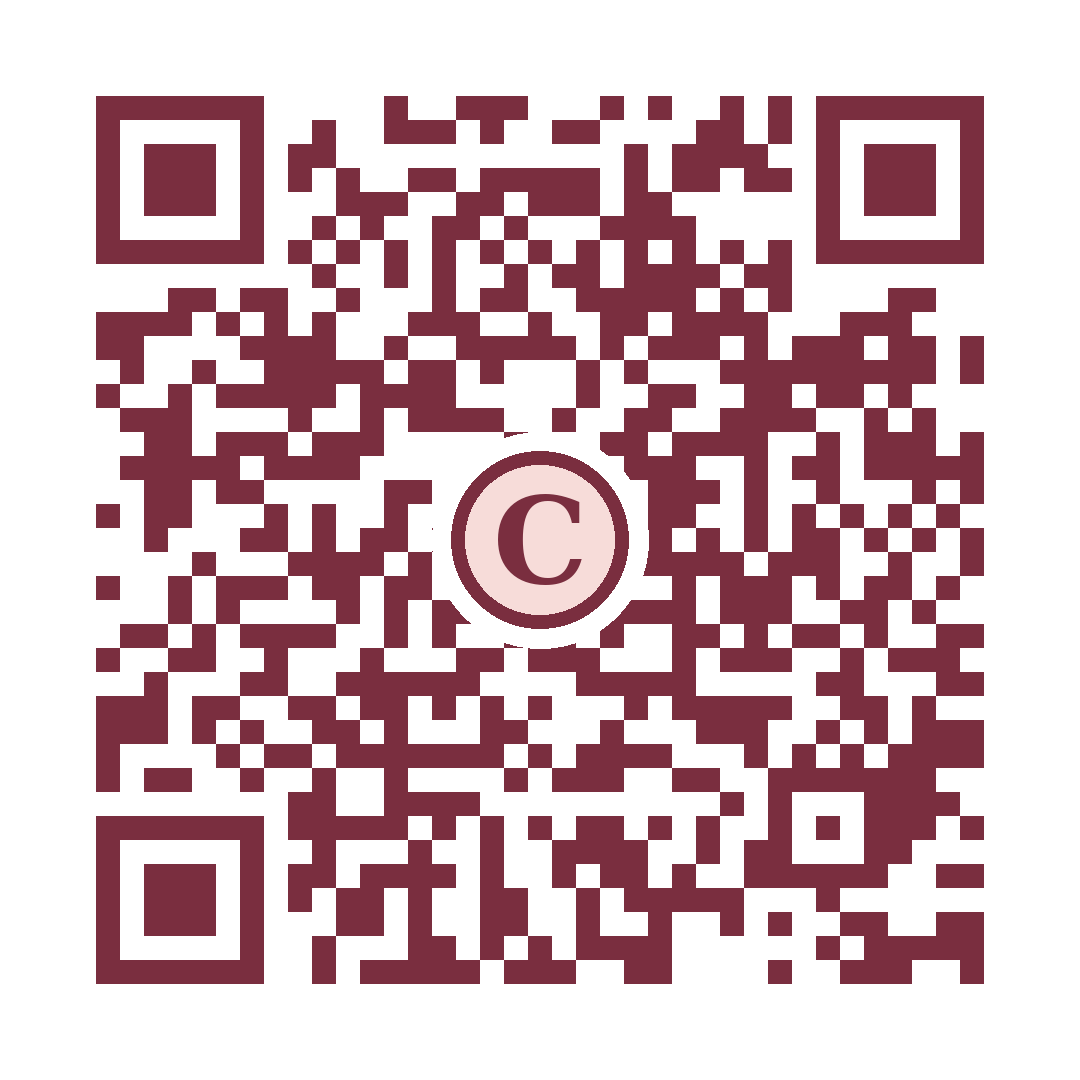
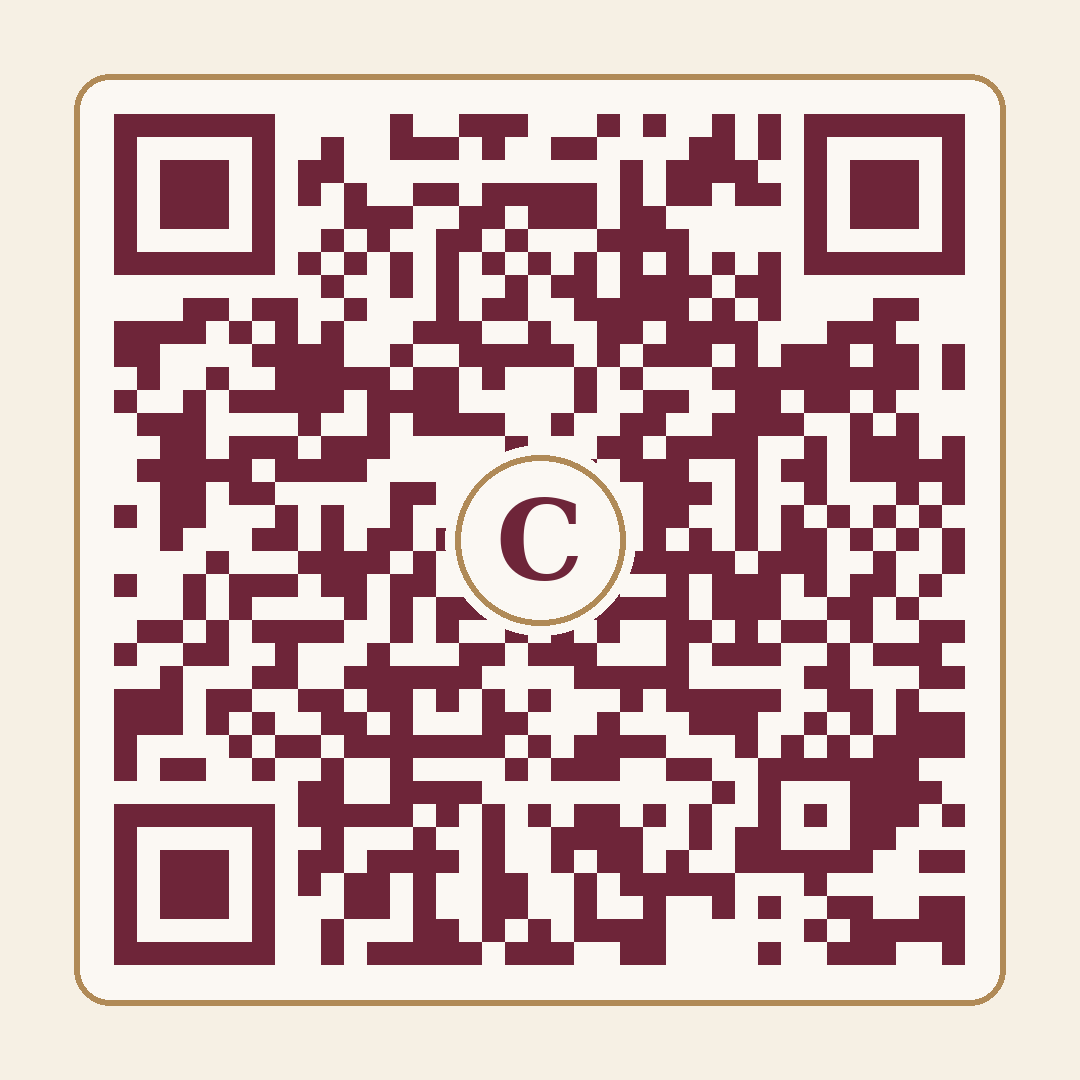
CorAge: QR e cabecalho na nova identidade, portfolio com submenus por area
Claude-Session: https://claude.ai/code/session_01CqJtkkt9FgEqkX4uZfM8Yy

diff --git a/index.html b/index.html
@@ -417,6 +417,27 @@ body{background:#f6f0e4!important}
 .rm .primary{width:100%}
 .hdr{backdrop-filter:blur(18px) saturate(1.6);-webkit-backdrop-filter:blur(18px) saturate(1.6)}
 @media (prefers-reduced-motion:reduce){.view>*{animation:none!important}}
+
+/* QR e cabecalho na nova identidade */
+.modal{background:rgba(31,40,40,.62)!important;backdrop-filter:blur(6px)}
+.sheet{background:#f6f0e4!important;border:1px solid #b08a57;box-shadow:0 20px 50px rgba(0,0,0,.35)}
+.sheet h2{font-family:var(--serif);color:var(--marsala)}
+.qrbox{background:#fbf8f3!important;border:2px solid #b08a57;border-radius:16px!important;box-shadow:0 8px 20px rgba(110,37,57,.18)}
+.hdr .ib,.hdr .ib.on,.hdr button.ib{background:var(--marsala)!important;color:#fff!important;border:0!important;box-shadow:0 6px 14px rgba(110,37,57,.35);width:46px;height:46px}
+.hdr .ib+.ib,.hdr .ib#av{background:var(--teal)!important;box-shadow:0 6px 14px rgba(31,78,82,.35)}
+.hdr .ib svg{stroke:#fff!important;width:24px;height:24px}
+.hdr #av{background:#5a3d2e!important;box-shadow:0 6px 14px rgba(90,61,46,.35);font-weight:700;font-size:20px}
+.logo i{background:var(--marsala)!important;color:#fff!important;border:0!important;box-shadow:0 4px 10px rgba(110,37,57,.3)}
+/* submenus do portfolio */
+.grps{display:grid;gap:10px;margin-bottom:6px}
+.grp{border-radius:14px;overflow:hidden;background:var(--gc);box-shadow:0 6px 14px rgba(0,0,0,.15)}
+.grp summary{list-style:none;cursor:pointer;display:flex;justify-content:space-between;align-items:center;padding:14px 16px;color:#fff;font-family:var(--serif);font-size:19px;font-weight:600}
+.grp summary::-webkit-details-marker{display:none}
+.grp summary i{font-style:normal;width:30px;height:30px;border:1px solid rgba(255,255,255,.7);border-radius:50%;display:grid;place-items:center;font-size:20px}
+.grp[open] summary i{transform:rotate(45deg)}
+.grp .subs{padding:0 10px 10px}
+.sub.off{opacity:.75}
+.view .acc .body .grp summary,.view .acc .body .grp summary i{color:#fff!important}
 </style>
 <script defer src="https://static.cloudflareinsights.com/beacon.min.js" data-cf-beacon='{"token": "a237ea8b496d4c9c8ea8725fd11d5b1a"}'></script>
 </head>
@@ -438,7 +459,7 @@ body{background:#f6f0e4!important}
 <div class="modal" id="modal" onclick="if(event.target===this)closeQR()">
   <div class="sheet">
     <h2>Abra o app da CorAge</h2>
-    <div class="qrbox"><svg viewBox="0 0 37 37" shape-rendering="crispEdges" role="img" aria-label="QR Code do app da CorAge"><path fill="#7a2e3f" d="M0 0h7v1h-7zM12 0h1v1h-1zM15 0h3v1h-3zM21 0h1v1h-1zM23 0h1v1h-1zM26 0h1v1h-1zM28 0h1v1h-1zM30 0h7v1h-7zM0 1h1v1h-1zM6 1h1v1h-1zM9 1h1v1h-1zM12 1h3v1h-3zM16 1h1v1h-1zM19 1h2v1h-2zM25 1h2v1h-2zM28 1h1v1h-1zM30 1h1v1h-1zM36 1h1v1h-1zM0 2h1v1h-1zM2 2h3v1h-3zM6 2h1v1h-1zM8 2h2v1h-2zM22 2h1v1h-1zM24 2h4v1h-4zM30 2h1v1h-1zM32 2h3v1h-3zM36 2h1v1h-1zM0 3h1v1h-1zM2 3h3v1h-3zM6 3h1v1h-1zM8 3h1v1h-1zM10 3h1v1h-1zM13 3h2v1h-2zM16 3h5v1h-5zM22 3h1v1h-1zM24 3h2v1h-2zM27 3h2v1h-2zM30 3h1v1h-1zM32 3h3v1h-3zM36 3h1v1h-1zM0 4h1v1h-1zM2 4h3v1h-3zM6 4h1v1h-1zM10 4h3v1h-3zM15 4h2v1h-2zM18 4h3v1h-3zM22 4h2v1h-2zM30 4h1v1h-1zM32 4h3v1h-3zM36 4h1v1h-1zM0 5h1v1h-1zM6 5h1v1h-1zM9 5h1v1h-1zM11 5h1v1h-1zM14 5h2v1h-2zM17 5h1v1h-1zM21 5h4v1h-4zM30 5h1v1h-1zM36 5h1v1h-1zM0 6h7v1h-7zM8 6h1v1h-1zM10 6h1v1h-1zM12 6h1v1h-1zM14 6h1v1h-1zM16 6h1v1h-1zM18 6h1v1h-1zM20 6h1v1h-1zM22 6h1v1h-1zM24 6h1v1h-1zM26 6h1v1h-1zM28 6h1v1h-1zM30 6h7v1h-7zM9 7h1v1h-1zM12 7h1v1h-1zM14 7h1v1h-1zM17 7h1v1h-1zM19 7h2v1h-2zM22 7h4v1h-4zM27 7h2v1h-2zM3 8h2v1h-2zM6 8h2v1h-2zM10 8h1v1h-1zM14 8h1v1h-1zM16 8h2v1h-2zM20 8h5v1h-5zM26 8h1v1h-1zM28 8h1v1h-1zM33 8h2v1h-2zM0 9h4v1h-4zM5 9h1v1h-1zM7 9h1v1h-1zM9 9h1v1h-1zM13 9h3v1h-3zM18 9h1v1h-1zM21 9h2v1h-2zM24 9h4v1h-4zM31 9h3v1h-3zM0 10h2v1h-2zM6 10h4v1h-4zM12 10h1v1h-1zM15 10h5v1h-5zM21 10h1v1h-1zM23 10h3v1h-3zM27 10h1v1h-1zM29 10h3v1h-3zM33 10h2v1h-2zM36 10h1v1h-1zM1 11h1v1h-1zM4 11h1v1h-1zM7 11h5v1h-5zM13 11h2v1h-2zM16 11h1v1h-1zM20 11h1v1h-1zM22 11h1v1h-1zM26 11h9v1h-9zM36 11h1v1h-1zM0 12h1v1h-1zM3 12h1v1h-1zM5 12h5v1h-5zM11 12h4v1h-4zM20 12h1v1h-1zM23 12h2v1h-2zM27 12h2v1h-2zM30 12h2v1h-2zM33 12h1v1h-1zM1 13h3v1h-3zM8 13h1v1h-1zM11 13h1v1h-1zM13 13h4v1h-4zM19 13h1v1h-1zM22 13h2v1h-2zM26 13h4v1h-4zM32 13h1v1h-1zM34 13h1v1h-1zM2 14h2v1h-2zM5 14h3v1h-3zM9 14h3v1h-3zM17 14h1v1h-1zM21 14h2v1h-2zM24 14h4v1h-4zM30 14h1v1h-1zM32 14h3v1h-3zM36 14h1v1h-1zM1 15h5v1h-5zM7 15h4v1h-4zM17 15h4v1h-4zM22 15h3v1h-3zM27 15h1v1h-1zM29 15h2v1h-2zM32 15h5v1h-5zM2 16h2v1h-2zM5 16h2v1h-2zM12 16h2v1h-2zM17 16h1v1h-1zM23 16h3v1h-3zM27 16h1v1h-1zM30 16h1v1h-1zM34 16h1v1h-1zM36 16h1v1h-1zM0 17h1v1h-1zM2 17h2v1h-2zM7 17h1v1h-1zM9 17h1v1h-1zM12 17h1v1h-1zM17 17h2v1h-2zM21 17h1v1h-1zM23 17h2v1h-2zM27 17h1v1h-1zM29 17h1v1h-1zM31 17h1v1h-1zM33 17h1v1h-1zM35 17h1v1h-1zM2 18h1v1h-1zM6 18h2v1h-2zM9 18h1v1h-1zM11 18h2v1h-2zM14 18h1v1h-1zM18 18h1v1h-1zM20 18h2v1h-2zM23 18h1v1h-1zM25 18h1v1h-1zM27 18h1v1h-1zM29 18h2v1h-2zM32 18h1v1h-1zM34 18h1v1h-1zM36 18h1v1h-1zM4 19h1v1h-1zM8 19h4v1h-4zM13 19h1v1h-1zM15 19h2v1h-2zM20 19h1v1h-1zM22 19h5v1h-5zM28 19h3v1h-3zM33 19h1v1h-1zM36 19h1v1h-1zM0 20h1v1h-1zM3 20h1v1h-1zM5 20h3v1h-3zM9 20h2v1h-2zM12 20h2v1h-2zM16 20h1v1h-1zM20 20h2v1h-2zM24 20h1v1h-1zM26 20h3v1h-3zM30 20h1v1h-1zM32 20h2v1h-2zM35 20h1v1h-1zM3 21h1v1h-1zM5 21h1v1h-1zM10 21h1v1h-1zM12 21h1v1h-1zM14 21h3v1h-3zM20 21h5v1h-5zM26 21h3v1h-3zM31 21h2v1h-2zM34 21h1v1h-1zM1 22h2v1h-2zM4 22h1v1h-1zM6 22h4v1h-4zM12 22h1v1h-1zM14 22h1v1h-1zM17 22h1v1h-1zM19 22h1v1h-1zM21 22h1v1h-1zM24 22h2v1h-2zM27 22h1v1h-1zM29 22h2v1h-2zM32 22h1v1h-1zM35 22h2v1h-2zM0 23h1v1h-1zM3 23h2v1h-2zM7 23h1v1h-1zM11 23h1v1h-1zM15 23h2v1h-2zM18 23h3v1h-3zM24 23h1v1h-1zM26 23h3v1h-3zM31 23h1v1h-1zM33 23h3v1h-3zM2 24h1v1h-1zM6 24h2v1h-2zM10 24h6v1h-6zM20 24h5v1h-5zM30 24h2v1h-2zM35 24h2v1h-2zM0 25h3v1h-3zM4 25h2v1h-2zM8 25h2v1h-2zM11 25h2v1h-2zM14 25h1v1h-1zM16 25h1v1h-1zM18 25h1v1h-1zM22 25h1v1h-1zM24 25h5v1h-5zM31 25h2v1h-2zM34 25h1v1h-1zM0 26h3v1h-3zM4 26h1v1h-1zM6 26h1v1h-1zM9 26h2v1h-2zM12 26h1v1h-1zM16 26h2v1h-2zM21 26h1v1h-1zM25 26h3v1h-3zM30 26h1v1h-1zM32 26h1v1h-1zM34 26h3v1h-3zM0 27h1v1h-1zM5 27h1v1h-1zM7 27h2v1h-2zM10 27h7v1h-7zM18 27h1v1h-1zM20 27h4v1h-4zM27 27h1v1h-1zM29 27h1v1h-1zM31 27h1v1h-1zM33 27h4v1h-4zM0 28h1v1h-1zM2 28h2v1h-2zM6 28h1v1h-1zM9 28h1v1h-1zM12 28h1v1h-1zM17 28h1v1h-1zM19 28h3v1h-3zM24 28h2v1h-2zM28 28h7v1h-7zM8 29h2v1h-2zM12 29h4v1h-4zM26 29h1v1h-1zM28 29h1v1h-1zM32 29h4v1h-4zM0 30h7v1h-7zM8 30h5v1h-5zM14 30h1v1h-1zM16 30h1v1h-1zM18 30h1v1h-1zM20 30h2v1h-2zM23 30h1v1h-1zM25 30h1v1h-1zM28 30h1v1h-1zM30 30h1v1h-1zM32 30h3v1h-3zM36 30h1v1h-1zM0 31h1v1h-1zM6 31h1v1h-1zM9 31h1v1h-1zM13 31h1v1h-1zM16 31h1v1h-1zM19 31h4v1h-4zM25 31h1v1h-1zM27 31h2v1h-2zM32 31h2v1h-2zM0 32h1v1h-1zM2 32h3v1h-3zM6 32h1v1h-1zM8 32h2v1h-2zM11 32h4v1h-4zM16 32h1v1h-1zM19 32h1v1h-1zM21 32h2v1h-2zM24 32h1v1h-1zM27 32h6v1h-6zM35 32h2v1h-2zM0 33h1v1h-1zM2 33h3v1h-3zM6 33h1v1h-1zM8 33h1v1h-1zM10 33h2v1h-2zM13 33h1v1h-1zM16 33h2v1h-2zM20 33h1v1h-1zM22 33h5v1h-5zM30 33h1v1h-1zM0 34h1v1h-1zM2 34h3v1h-3zM6 34h1v1h-1zM10 34h2v1h-2zM13 34h1v1h-1zM16 34h2v1h-2zM20 34h1v1h-1zM23 34h1v1h-1zM26 34h1v1h-1zM28 34h1v1h-1zM31 34h2v1h-2zM35 34h2v1h-2zM0 35h1v1h-1zM6 35h1v1h-1zM9 35h1v1h-1zM13 35h2v1h-2zM16 35h1v1h-1zM18 35h1v1h-1zM20 35h4v1h-4zM30 35h1v1h-1zM32 35h5v1h-5zM0 36h7v1h-7zM9 36h1v1h-1zM11 36h5v1h-5zM17 36h3v1h-3zM22 36h2v1h-2zM28 36h1v1h-1zM31 36h3v1h-3zM36 36h1v1h-1z"/><circle cx="18.5" cy="18.5" r="4.5" fill="#fff"/><circle cx="18.5" cy="18.5" r="3.7" fill="#f7dcd9" stroke="#7a2e3f" stroke-width="0.6"/><text x="18.5" y="19.906" text-anchor="middle" font-family="Georgia,serif" font-weight="700" font-size="4.62" fill="#7a2e3f">C</text><g id="x""/></svg></div>
+    <div class="qrbox"><svg viewBox="0 0 37 37" shape-rendering="crispEdges" role="img" aria-label="QR Code do app da CorAge"><path fill="#6e2539" d="M0 0h7v1h-7zM12 0h1v1h-1zM15 0h3v1h-3zM21 0h1v1h-1zM23 0h1v1h-1zM26 0h1v1h-1zM28 0h1v1h-1zM30 0h7v1h-7zM0 1h1v1h-1zM6 1h1v1h-1zM9 1h1v1h-1zM12 1h3v1h-3zM16 1h1v1h-1zM19 1h2v1h-2zM25 1h2v1h-2zM28 1h1v1h-1zM30 1h1v1h-1zM36 1h1v1h-1zM0 2h1v1h-1zM2 2h3v1h-3zM6 2h1v1h-1zM8 2h2v1h-2zM22 2h1v1h-1zM24 2h4v1h-4zM30 2h1v1h-1zM32 2h3v1h-3zM36 2h1v1h-1zM0 3h1v1h-1zM2 3h3v1h-3zM6 3h1v1h-1zM8 3h1v1h-1zM10 3h1v1h-1zM13 3h2v1h-2zM16 3h5v1h-5zM22 3h1v1h-1zM24 3h2v1h-2zM27 3h2v1h-2zM30 3h1v1h-1zM32 3h3v1h-3zM36 3h1v1h-1zM0 4h1v1h-1zM2 4h3v1h-3zM6 4h1v1h-1zM10 4h3v1h-3zM15 4h2v1h-2zM18 4h3v1h-3zM22 4h2v1h-2zM30 4h1v1h-1zM32 4h3v1h-3zM36 4h1v1h-1zM0 5h1v1h-1zM6 5h1v1h-1zM9 5h1v1h-1zM11 5h1v1h-1zM14 5h2v1h-2zM17 5h1v1h-1zM21 5h4v1h-4zM30 5h1v1h-1zM36 5h1v1h-1zM0 6h7v1h-7zM8 6h1v1h-1zM10 6h1v1h-1zM12 6h1v1h-1zM14 6h1v1h-1zM16 6h1v1h-1zM18 6h1v1h-1zM20 6h1v1h-1zM22 6h1v1h-1zM24 6h1v1h-1zM26 6h1v1h-1zM28 6h1v1h-1zM30 6h7v1h-7zM9 7h1v1h-1zM12 7h1v1h-1zM14 7h1v1h-1zM17 7h1v1h-1zM19 7h2v1h-2zM22 7h4v1h-4zM27 7h2v1h-2zM3 8h2v1h-2zM6 8h2v1h-2zM10 8h1v1h-1zM14 8h1v1h-1zM16 8h2v1h-2zM20 8h5v1h-5zM26 8h1v1h-1zM28 8h1v1h-1zM33 8h2v1h-2zM0 9h4v1h-4zM5 9h1v1h-1zM7 9h1v1h-1zM9 9h1v1h-1zM13 9h3v1h-3zM18 9h1v1h-1zM21 9h2v1h-2zM24 9h4v1h-4zM31 9h3v1h-3zM0 10h2v1h-2zM6 10h4v1h-4zM12 10h1v1h-1zM15 10h5v1h-5zM21 10h1v1h-1zM23 10h3v1h-3zM27 10h1v1h-1zM29 10h3v1h-3zM33 10h2v1h-2zM36 10h1v1h-1zM1 11h1v1h-1zM4 11h1v1h-1zM7 11h5v1h-5zM13 11h2v1h-2zM16 11h1v1h-1zM20 11h1v1h-1zM22 11h1v1h-1zM26 11h9v1h-9zM36 11h1v1h-1zM0 12h1v1h-1zM3 12h1v1h-1zM5 12h5v1h-5zM11 12h4v1h-4zM20 12h1v1h-1zM23 12h2v1h-2zM27 12h2v1h-2zM30 12h2v1h-2zM33 12h1v1h-1zM1 13h3v1h-3zM8 13h1v1h-1zM11 13h1v1h-1zM13 13h4v1h-4zM19 13h1v1h-1zM22 13h2v1h-2zM26 13h4v1h-4zM32 13h1v1h-1zM34 13h1v1h-1zM2 14h2v1h-2zM5 14h3v1h-3zM9 14h3v1h-3zM17 14h1v1h-1zM21 14h2v1h-2zM24 14h4v1h-4zM30 14h1v1h-1zM32 14h3v1h-3zM36 14h1v1h-1zM1 15h5v1h-5zM7 15h4v1h-4zM17 15h4v1h-4zM22 15h3v1h-3zM27 15h1v1h-1zM29 15h2v1h-2zM32 15h5v1h-5zM2 16h2v1h-2zM5 16h2v1h-2zM12 16h2v1h-2zM17 16h1v1h-1zM23 16h3v1h-3zM27 16h1v1h-1zM30 16h1v1h-1zM34 16h1v1h-1zM36 16h1v1h-1zM0 17h1v1h-1zM2 17h2v1h-2zM7 17h1v1h-1zM9 17h1v1h-1zM12 17h1v1h-1zM17 17h2v1h-2zM21 17h1v1h-1zM23 17h2v1h-2zM27 17h1v1h-1zM29 17h1v1h-1zM31 17h1v1h-1zM33 17h1v1h-1zM35 17h1v1h-1zM2 18h1v1h-1zM6 18h2v1h-2zM9 18h1v1h-1zM11 18h2v1h-2zM14 18h1v1h-1zM18 18h1v1h-1zM20 18h2v1h-2zM23 18h1v1h-1zM25 18h1v1h-1zM27 18h1v1h-1zM29 18h2v1h-2zM32 18h1v1h-1zM34 18h1v1h-1zM36 18h1v1h-1zM4 19h1v1h-1zM8 19h4v1h-4zM13 19h1v1h-1zM15 19h2v1h-2zM20 19h1v1h-1zM22 19h5v1h-5zM28 19h3v1h-3zM33 19h1v1h-1zM36 19h1v1h-1zM0 20h1v1h-1zM3 20h1v1h-1zM5 20h3v1h-3zM9 20h2v1h-2zM12 20h2v1h-2zM16 20h1v1h-1zM20 20h2v1h-2zM24 20h1v1h-1zM26 20h3v1h-3zM30 20h1v1h-1zM32 20h2v1h-2zM35 20h1v1h-1zM3 21h1v1h-1zM5 21h1v1h-1zM10 21h1v1h-1zM12 21h1v1h-1zM14 21h3v1h-3zM20 21h5v1h-5zM26 21h3v1h-3zM31 21h2v1h-2zM34 21h1v1h-1zM1 22h2v1h-2zM4 22h1v1h-1zM6 22h4v1h-4zM12 22h1v1h-1zM14 22h1v1h-1zM17 22h1v1h-1zM19 22h1v1h-1zM21 22h1v1h-1zM24 22h2v1h-2zM27 22h1v1h-1zM29 22h2v1h-2zM32 22h1v1h-1zM35 22h2v1h-2zM0 23h1v1h-1zM3 23h2v1h-2zM7 23h1v1h-1zM11 23h1v1h-1zM15 23h2v1h-2zM18 23h3v1h-3zM24 23h1v1h-1zM26 23h3v1h-3zM31 23h1v1h-1zM33 23h3v1h-3zM2 24h1v1h-1zM6 24h2v1h-2zM10 24h6v1h-6zM20 24h5v1h-5zM30 24h2v1h-2zM35 24h2v1h-2zM0 25h3v1h-3zM4 25h2v1h-2zM8 25h2v1h-2zM11 25h2v1h-2zM14 25h1v1h-1zM16 25h1v1h-1zM18 25h1v1h-1zM22 25h1v1h-1zM24 25h5v1h-5zM31 25h2v1h-2zM34 25h1v1h-1zM0 26h3v1h-3zM4 26h1v1h-1zM6 26h1v1h-1zM9 26h2v1h-2zM12 26h1v1h-1zM16 26h2v1h-2zM21 26h1v1h-1zM25 26h3v1h-3zM30 26h1v1h-1zM32 26h1v1h-1zM34 26h3v1h-3zM0 27h1v1h-1zM5 27h1v1h-1zM7 27h2v1h-2zM10 27h7v1h-7zM18 27h1v1h-1zM20 27h4v1h-4zM27 27h1v1h-1zM29 27h1v1h-1zM31 27h1v1h-1zM33 27h4v1h-4zM0 28h1v1h-1zM2 28h2v1h-2zM6 28h1v1h-1zM9 28h1v1h-1zM12 28h1v1h-1zM17 28h1v1h-1zM19 28h3v1h-3zM24 28h2v1h-2zM28 28h7v1h-7zM8 29h2v1h-2zM12 29h4v1h-4zM26 29h1v1h-1zM28 29h1v1h-1zM32 29h4v1h-4zM0 30h7v1h-7zM8 30h5v1h-5zM14 30h1v1h-1zM16 30h1v1h-1zM18 30h1v1h-1zM20 30h2v1h-2zM23 30h1v1h-1zM25 30h1v1h-1zM28 30h1v1h-1zM30 30h1v1h-1zM32 30h3v1h-3zM36 30h1v1h-1zM0 31h1v1h-1zM6 31h1v1h-1zM9 31h1v1h-1zM13 31h1v1h-1zM16 31h1v1h-1zM19 31h4v1h-4zM25 31h1v1h-1zM27 31h2v1h-2zM32 31h2v1h-2zM0 32h1v1h-1zM2 32h3v1h-3zM6 32h1v1h-1zM8 32h2v1h-2zM11 32h4v1h-4zM16 32h1v1h-1zM19 32h1v1h-1zM21 32h2v1h-2zM24 32h1v1h-1zM27 32h6v1h-6zM35 32h2v1h-2zM0 33h1v1h-1zM2 33h3v1h-3zM6 33h1v1h-1zM8 33h1v1h-1zM10 33h2v1h-2zM13 33h1v1h-1zM16 33h2v1h-2zM20 33h1v1h-1zM22 33h5v1h-5zM30 33h1v1h-1zM0 34h1v1h-1zM2 34h3v1h-3zM6 34h1v1h-1zM10 34h2v1h-2zM13 34h1v1h-1zM16 34h2v1h-2zM20 34h1v1h-1zM23 34h1v1h-1zM26 34h1v1h-1zM28 34h1v1h-1zM31 34h2v1h-2zM35 34h2v1h-2zM0 35h1v1h-1zM6 35h1v1h-1zM9 35h1v1h-1zM13 35h2v1h-2zM16 35h1v1h-1zM18 35h1v1h-1zM20 35h4v1h-4zM30 35h1v1h-1zM32 35h5v1h-5zM0 36h7v1h-7zM9 36h1v1h-1zM11 36h5v1h-5zM17 36h3v1h-3zM22 36h2v1h-2zM28 36h1v1h-1zM31 36h3v1h-3zM36 36h1v1h-1z"/><circle cx="18.5" cy="18.5" r="4.5" fill="#fbf8f3"/><circle cx="18.5" cy="18.5" r="3.7" fill="#fbf8f3" stroke="#b08a57" stroke-width="0.6"/><text x="18.5" y="19.906" text-anchor="middle" font-family="Georgia,serif" font-weight="700" font-size="4.62" fill="#6e2539">C</text><g id="x""/></svg></div>
     <p class="small">Aponte a câmera do celular para o quadrado.</p>
     <button class="primary" onclick="shareApp()">Compartilhar o link</button>
     <div class="sp"></div>
@@ -567,14 +588,18 @@ var wheel=[
  ["Indique","Indique um livro, filme ou profissional em que você confia e diga por quê."]
 ];
 var works=[
+ {c:"Apps",ic:"phone",col:"#6e2539",tg:"Para quem cuida",t:"Aplicativos para quem cuida",d:"Um app com a cara e as cores de cada profissional. Escolha a área para ver os que já fiz:",groups:[
+  {n:"Psicólogas",col:"#5a3d2e",items:[
+   {n:"Psicóloga Keila",s:"Quiz, roda das emoções, respiração, diário e desafio de 7 dias",u:APP_PSI},
+   {n:"Cris, psicóloga e líderes",s:"Clima da equipe, preparo para a NR-1 e desafio para líderes",u:"https://eve-imagem-e-marca.github.io/app-cristiane/"},
+   {n:"Adilene, relações e adoção",s:"Quiz de relações, roda do bem-estar e conteúdo sobre adoção",u:"https://eve-imagem-e-marca.github.io/Adilene-App/"}]},
+  {n:"Nutricionista",col:"#55683f",items:[
+   {n:"App para nutricionista",s:"Quiz, calculadora de IMC e de água, desafio de 7 dias e cardápio com lista de compras",u:APP_NUTRI}]},
+  {n:"Consultoria de imagem",col:"#6e2539",items:[
+   {n:"Método EVEC",s:"Imagem, presença digital e posts prontos em minutos, no celular",u:"https://metodoevec.com.br"}]},
+  {n:"Cores",col:"#8f6a35",items:[
+   {n:"Colorev",s:"App só de cores. Em breve"}]}]},
  {c:"Apps",ic:"briefcase",col:"#9a5b3f",tg:"Diferencial",t:"Agência de bolso",d:"Os meus apps funcionam como uma agência dentro do celular: imagem, ideias de conteúdo, lembretes de postagem, jogos e contato, tudo num só lugar, com a cara e as cores da sua marca."},
- {c:"Apps",ic:"brain",col:"#6b4a36",tg:"Modelos de app",t:"Apps para psicólogas",d:"Cada psicóloga tem o seu app, com as cores e as ferramentas do trabalho dela. Escolha um para ver:",subs:[
-  {n:"Psicóloga Keila",s:"Quiz, roda das emoções, respiração, diário e desafio de 7 dias",u:APP_PSI},
-  {n:"Cris, psicóloga e líderes",s:"Clima da equipe, preparo para a NR-1 e desafio para líderes",u:"https://eve-imagem-e-marca.github.io/app-cristiane/"},
-  {n:"Adilene, relações e adoção",s:"Quiz de relações, roda do bem-estar e conteúdo sobre adoção",u:"https://eve-imagem-e-marca.github.io/Adilene-App/"}]},
- {c:"Apps",ic:"heart",col:"#6e2539",t:"Método EVEC",d:"Plataforma para a mulher que empreende cuidar da imagem e criar o conteúdo dela sem surtar. Da roupa e da presença digital até os posts, tudo pronto em minutos, no celular.",u:"https://metodoevec.com.br",b:"Conhecer"},
- {c:"Apps",ic:"apple",col:"#55683f",tg:"Modelo de app",t:"App para nutricionista",d:"Quiz, calculadora de IMC e de água, desafio de 7 dias, cardápio com lista de compras e cadastro de interessados. Para a profissional atrair, se aproximar e fazer a lista de contatos crescer.",u:APP_NUTRI,b:"Abrir o app"},
- {c:"Apps",ic:"palette",col:"#8f6a35",t:"Colorev",d:"App só de cores: ajuda a pessoa a descobrir as cores que ficam bem nela e a comprar com mais segurança.",tg:"Em breve"},
  {c:"Podcast",ic:"mic",col:"#1f4e52",t:"Podleve",d:"Podcast para quem cuida de gente, com a Eve como host. Entrevistas com profissionais do cuidado, com edição, roteiro e cortes feitos por ela.",u:"https://www.youtube.com/@podleve_cast",b:"Ver no YouTube"},
  {c:"Conteúdo",ic:"book",col:"#e8dcc4",lt:1,t:"E-books para quem cuida",d:"A Imagem que Acolhe, Instagram que Acolhe, O Carrossel que Cuida e Alcance que Acolhe: guias de imagem e de conteúdo para profissionais do cuidado."},
  {c:"Conteúdo",ic:"pen",col:"#cdb998",lt:1,t:"Produção de conteúdo",d:"Posts e estratégia para perfis de psicólogas, esteticistas e dentistas, e para o próprio perfil, desde que me formei em Marketing, em 2012."},
@@ -798,7 +823,7 @@ function spin(){
 }
 
[1 lines of base64/hex data omitted]
-function subList(w){if(!w.subs)return '';var h='<div class="subs">';w.subs.forEach(function(x){h+='<a class="sub" href="'+x.u+'" target="_blank" rel="noopener"><b>'+x.n+'</b><span>'+x.s+'</span></a>';});return h+'</div>';}
+function subList(w){if(!w.groups)return '';var h='<div class="grps">';w.groups.forEach(function(g){h+='<details class="grp" style="--gc:'+g.col+'"><summary>'+g.n+'<i>+</i></summary><div class="subs">';g.items.forEach(function(x){h+=(x.u?'<a class="sub" href="'+x.u+'" target="_blank" rel="noopener">':'<div class="sub off">')+'<b>'+x.n+'</b><span>'+x.s+'</span>'+(x.u?'</a>':'</div>');});h+='</div></details>';});return h+'</div>';}
 function vPortfolio(){
   var h='<h2>Portfólio</h2><div class="acc lt" style="background:#fbf8f3!important;border:1px solid #b08a57!important" onclick="if(event.target.closest(\'button\')&&event.target.closest(\'.acc\')===this&&!event.target.closest(\'.body\'))toggle(this)"><button><div class="cic" style="width:40px;height:40px;padding:0;overflow:hidden"><img src="'+EVEIMG+'" alt="Eve Cabreira" style="width:100%;height:100%;object-fit:cover;display:block"></div><div style="flex:1"><b>Sou a Eve</b><span>Imagem, marca e apps</span></div><em>+</em></button><div class="body"><img src="'+EVEIMG+'" alt="Eve Cabreira, mentora de imagem e criadora de apps" style="width:112px;height:112px;border-radius:50%;object-fit:cover;display:block;margin:2px auto 12px;border:3px solid #fff;box-shadow:0 0 0 2px var(--marsala)"><p>Trabalho com imagem desde 2018 e sou formada em Marketing. Hoje transformo o que sei de imagem e conteúdo em apps e plataformas, para que o seu trabalho seja visto, lembrado e procurado.</p></div></div>'+
    '<div class="chips">';

diff --git a/sw.js b/sw.js
@@ -1,4 +1,4 @@
-var CACHE = "corage-raio-x-v48";
+var CACHE = "corage-raio-x-v50";
 var FILES = ["./", "index.html", "manifest.webmanifest", "icon-192.png", "icon-512.png"];
 
 self.addEventListener("install", function (e) {
